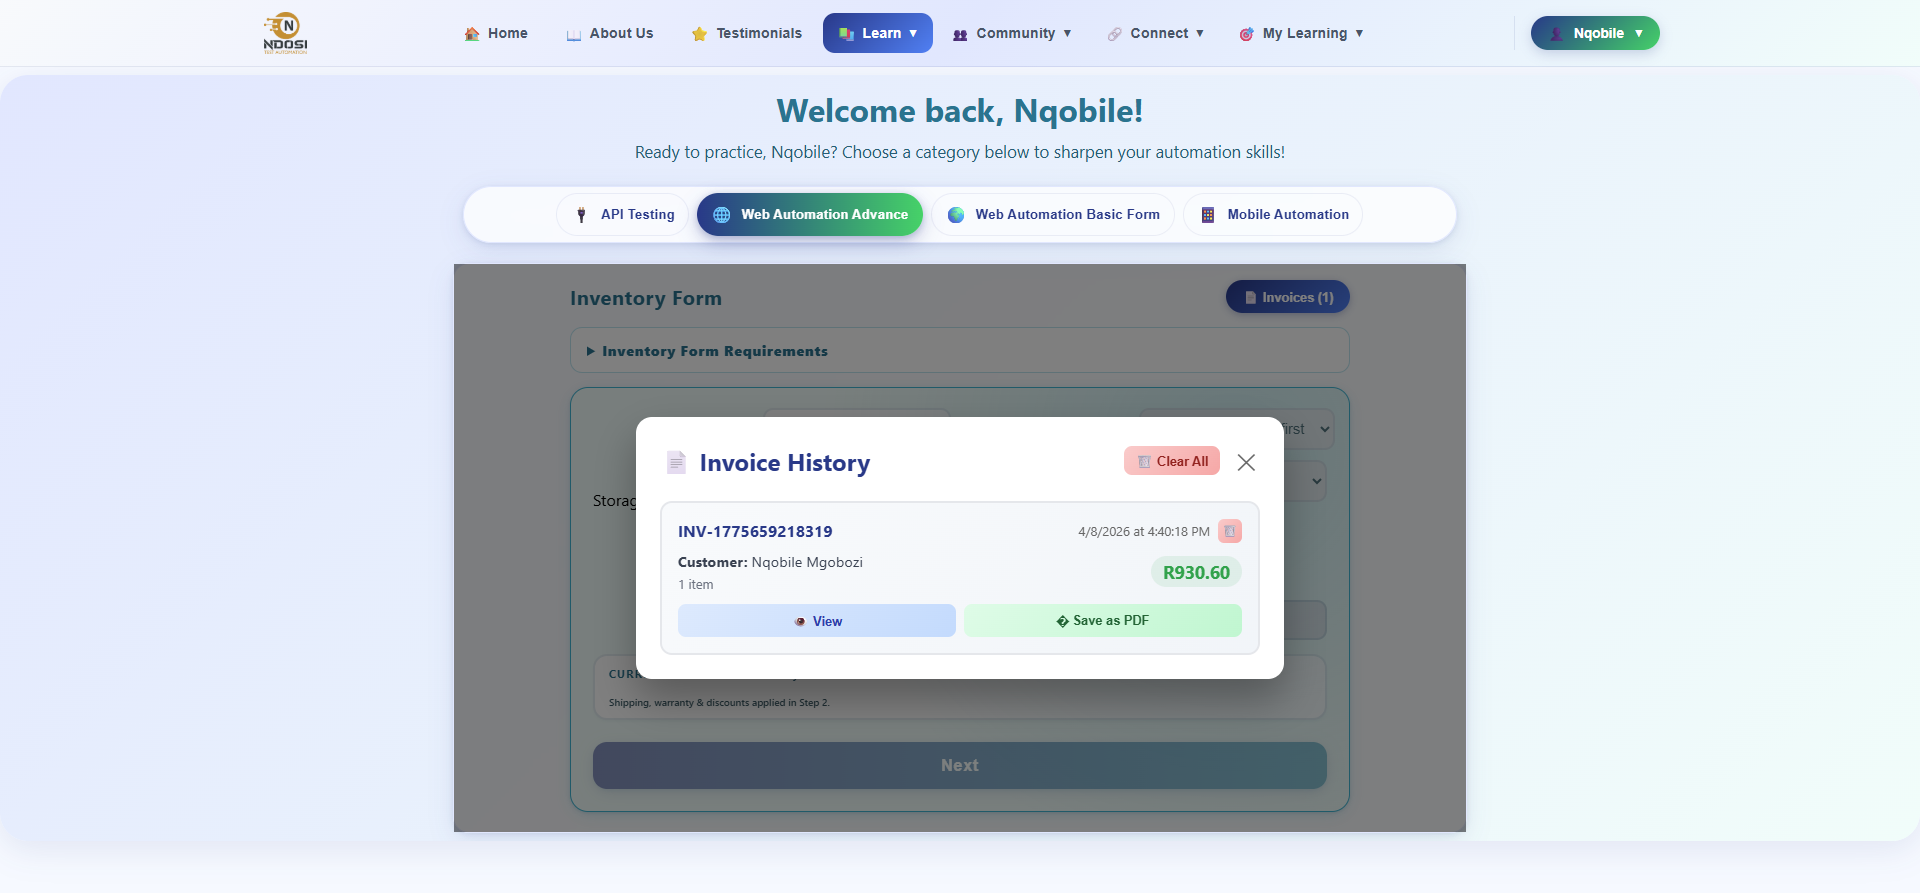
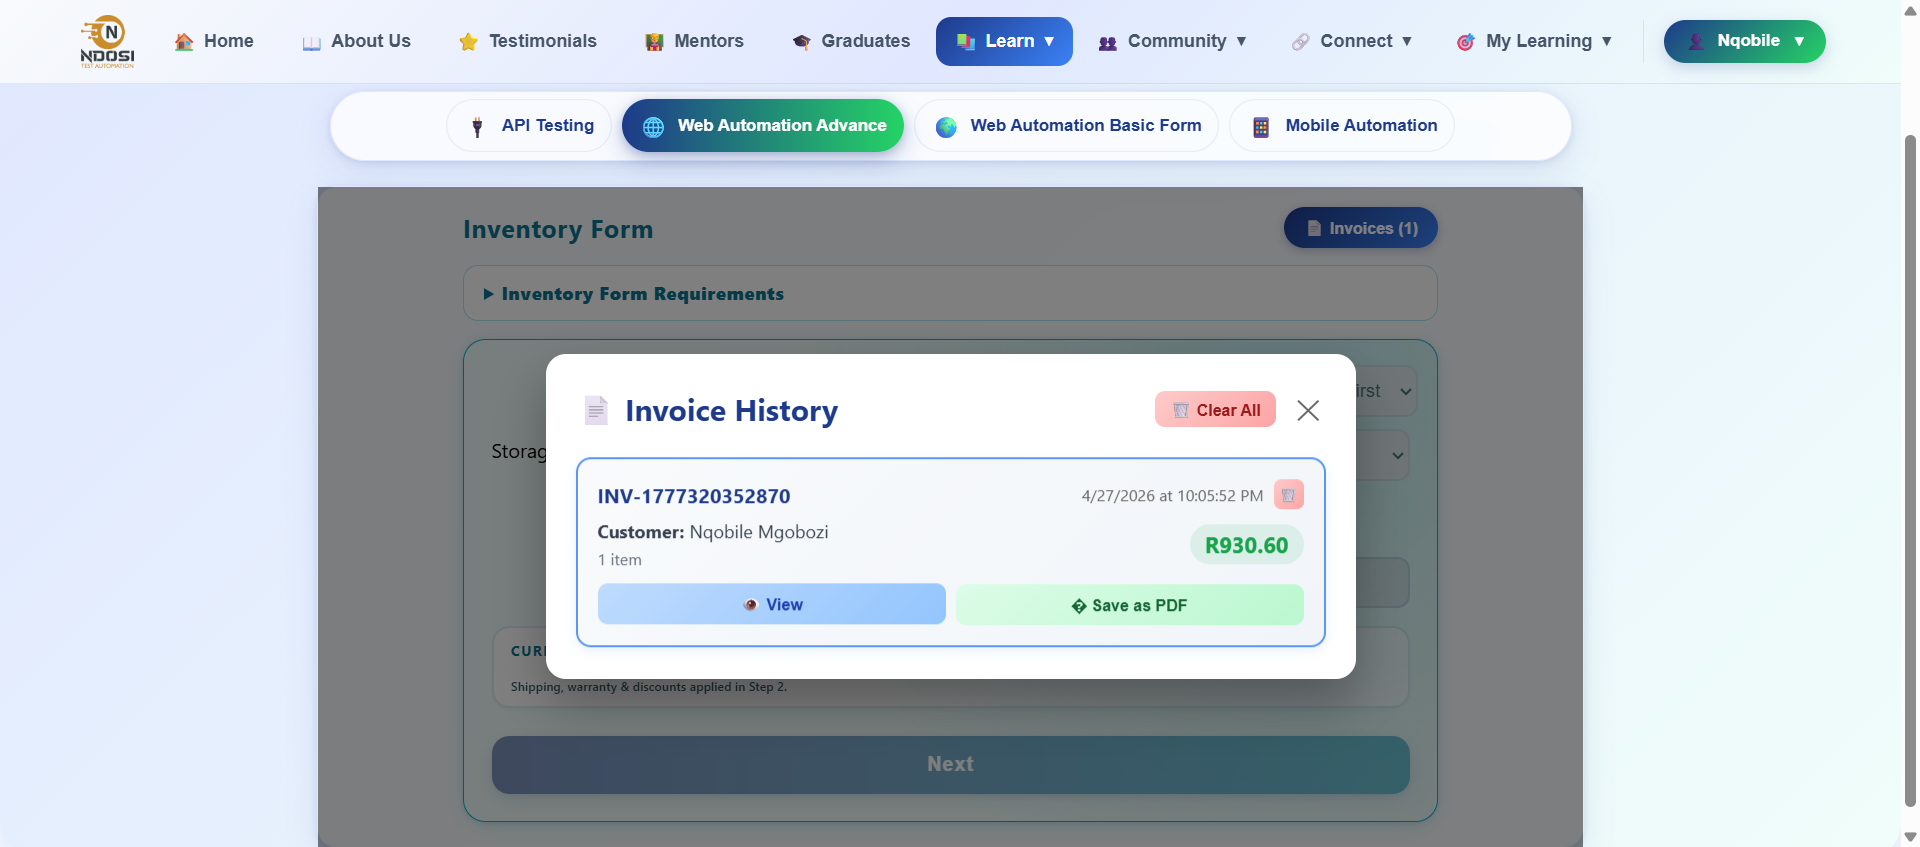
created extend reports and completed extend report manager class and listener class

diff --git a/src/test/java/ExtentReports/Listener.java b/src/test/java/ExtentReports/Listener.java
@@ -1,0 +1,55 @@
+package ExtentReports;
+
+import com.aventstack.extentreports.ExtentReports;
+import com.aventstack.extentreports.ExtentTest;
+import com.aventstack.extentreports.Status;
+import org.testng.ITestContext;
+import org.testng.ITestListener;
+import org.testng.ITestResult;
+
+// This class listens to everything TestNG does during test execution
+public class Listener implements ITestListener {
+
+    private static ExtentReports extent;
+
+    private static ExtentTest extentTest;
+
+    @Override
+    public void onTestStart(ITestResult result) {
+
+        extentTest = extent.createTest(result.getMethod().getMethodName());
+    }
+
+    // Runs when a test FAILS
+    @Override
+    public void onTestFailure(ITestResult result) {
+
+        extentTest.log(Status.FAIL, "Test Case " + result.getMethod().getMethodName() + " Has failed");
+    }
+
+    // Runs when a test PASSES
+    @Override
+    public void onTestSuccess(ITestResult result) {
+
+        extentTest.log(Status.PASS, "Test Case " + result.getMethod().getMethodName() + " Has passed");
+    }
+
+    // Runs when a test is SKIPPED (e.g., due to dependency failure)
+    @Override
+    public void onTestSkipped(ITestResult result) {
+
+        extentTest.log(Status.SKIP, "Test Case " + result.getMethod().getMethodName() + " Has been skipped");
+    }
+
+    @Override
+    public void onFinish(ITestContext result) {
+        extent.flush();
+    }
+
+    @Override
+    public void onStart(ITestContext result) {
+        extent = ExtendReportManager.extentReports();
+
+    }
+
+}

diff --git a/src/test/java/ExtentReports/ExtendReportManager.java b/src/test/java/ExtentReports/ExtendReportManager.java
@@ -1,0 +1,36 @@
+package ExtentReports;
+
+import com.aventstack.extentreports.ExtentReports;
+import com.aventstack.extentreports.reporter.ExtentSparkReporter;
+import com.aventstack.extentreports.reporter.configuration.Theme;
+
+import java.io.File;
+
+public class ExtendReportManager {
+
+    private static final String reportDir = System.getProperty("user.dir") + "/Reports/InventoryAutomationReport.html";
+
+    private static ExtentReports extentReports;
+
+    private static ExtentSparkReporter extentSparkReporter;
+
+    public static ExtentReports extentReports(){
+
+        extentReports = new ExtentReports();
+
+        extentSparkReporter = new ExtentSparkReporter(new File(reportDir));
+
+        extentReports.attachReporter(extentSparkReporter);
+
+        extentSparkReporter.config().setDocumentTitle("Extent Report");
+
+        extentSparkReporter.config().setTheme(Theme.DARK);
+
+        extentSparkReporter.config().setReportName("Ndosi Automation");
+
+        extentReports.setSystemInfo("OS", System.getProperty("os.name"));
+        extentReports.setSystemInfo("Execution Machine", System.getProperty("user.name"));
+
+        return extentReports;
+    }
+}

diff --git a/src/test/java/Tests/NdosiTests.java b/src/test/java/Tests/NdosiTests.java
@@ -8,7 +8,6 @@ import org.testng.annotations.Test;
 public class NdosiTests extends Base {
 
 
-
     //@Test(dependsOnMethods = "verifyHomePageIsDisplayed")
     public void clickLoginButton() {
         homePage.clickLoginButton();
@@ -32,7 +31,6 @@ public class NdosiTests extends Base {
     @Test(dependsOnMethods = "userClicksLoginButton")
     public void verifyLoginPageIsDisplayed(){
         loginPage.verifyLoginPageIsDisplayed();
-        takeScreenshots.takeSnapShots(driver, "LoginPageScreenshot01");
     }
 
     @Test(dependsOnMethods = "verifyLoginPageIsDisplayed")
@@ -119,7 +117,7 @@ public class NdosiTests extends Base {
 
 
     @Test(dependsOnMethods = "userClickView")
-    public void verifyInvoiceIsDisplayed() throws InterruptedException {
+    public void verifyInvoiceIsDisplayed() {
         formPage.verifyInvoiceIsDisplayed();
         takeScreenshots.takeSnapShots(driver, "InvoiceScreenshot01");
     }

diff --git a/src/test/java/Pages/FormPage.java b/src/test/java/Pages/FormPage.java
@@ -16,8 +16,6 @@ public class FormPage {
 
     WebDriver driver;
 
-    //@FindBy(xpath = "//*[@id=\"deviceType\"]/option[2]")
-    //WebElement deviceField;
     @FindBy(xpath = "//*[@id=\"deviceType\"]")
     WebElement deviceTypeDropdown;
 
@@ -146,12 +144,9 @@ public class FormPage {
         Thread.sleep(5000);
     }
 
-    public void verifyInvoiceIsDisplayed() throws InterruptedException {
+    public void verifyInvoiceIsDisplayed() {
         verifyInvoice.isDisplayed();
-        Thread.sleep(2000);
     }
-
-
 
 
 }
